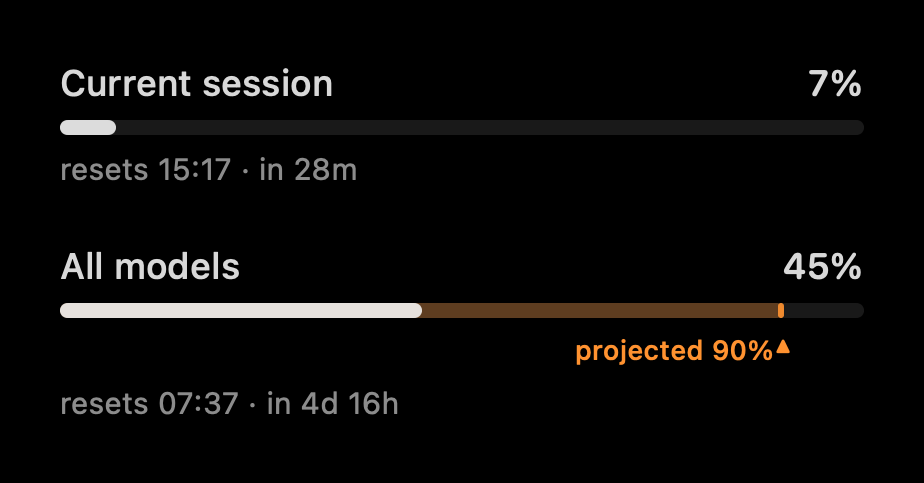
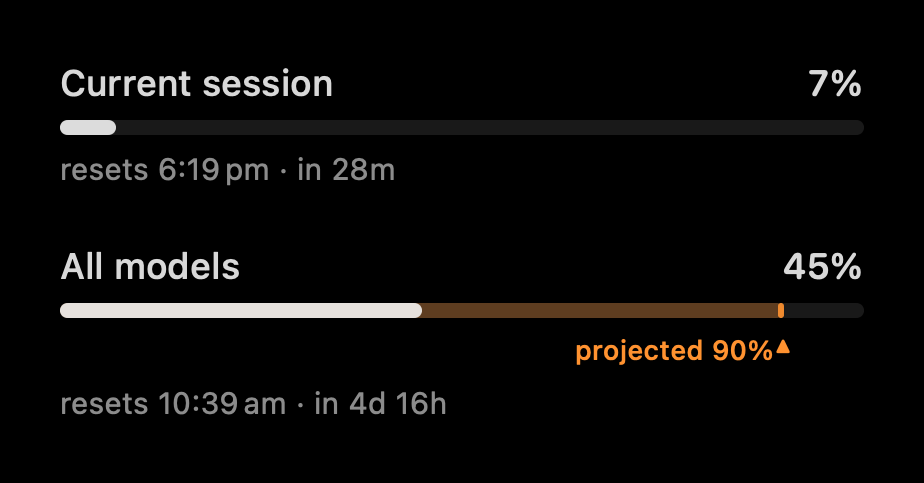
Show times in the user's own clock convention, not always 24-hour
clockTime hardcoded "HH:mm", so every reset time rendered 24-hour regardless of
locale or of the 12/24-hour switch in System Settings. That is wrong for most of
the world, and specifically wrong for the locale this was built in: en_AU
defaults to am/pm, so the app had been showing 17:49 where the system says
5:49 pm since the first release.

timeStyle = .short follows the locale's convention and the explicit override
when there is one — verified against an explicit hour cycle, en_AU@hours=h23
renders 17:50 and en_GB@hours=h12 renders 5:50 pm.

The same commit fixes two neighbours with the same root cause, both literal
patterns where a template was needed:

  - "EEE d MMM" hardcoded day-before-month, wrong in the US and unable to
    express ja_JP's 8月16日(日) at all.
  - "EEE d MMM 'at' HH:mm" additionally froze the connector to English. The
    template supplies "at", "à", or nothing, per locale.

Visible in the popover and in notification bodies, which carry a reset time too.

The debug stamp in AppDelegate stays 24-hour deliberately and now says so: it
goes to stderr for comparing poll gaps, where locale-independence is the point.

README images regenerated — they had the 24-hour times baked in.

Changed region(s): [[0.1515, 0.8075, 0.4848, 0.8696], [0.1515, 0.3106, 0.4242, 0.3727]]

diff --git a/Sources/ClawBar/Data/UsageSnapshot.swift b/Sources/ClawBar/Data/UsageSnapshot.swift
@@ -115,12 +115,28 @@ func resetDescription(_ date: Date, relativeTo now: Date = Date()) -> String {
                                        from: calendar.startOfDay(for: now),
                                        to: calendar.startOfDay(for: date)).day ?? 0
     let formatter = DateFormatter()
-    formatter.dateFormat = days < 7 ? "EEE" : "EEE d MMM"
+    // From a template, never a literal pattern. `EEE d MMM` hardcodes day-before-month,
+    // which is simply wrong in the United States and anywhere else that leads with the
+    // month, and it cannot produce the shapes some locales need at all — ja_JP wants
+    // 8月16日(日), which is not a reordering of these fields but a different construction.
+    // A template names the fields wanted and lets the locale decide the rest.
+    formatter.dateFormat = DateFormatter.dateFormat(
+        fromTemplate: days < 7 ? "EEE" : "EEEdMMM", options: 0, locale: .current)
     return "\(formatter.string(from: date)) \(time)"
 }
 
+/// The wall-clock time, in whatever convention the user actually reads.
+///
+/// This was `HH:mm`, which is 24-hour for everybody. That is wrong for most of the world's
+/// locales — and specifically wrong for the one this was developed in, since en_AU defaults
+/// to am/pm. It also ignored the explicit 12/24-hour switch in System Settings, so a user
+/// who had set a preference was overruled by a format string.
+///
+/// `timeStyle = .short` follows both: the locale's own convention, and the override when
+/// there is one. Nothing else here needs to know which was in play.
 func clockTime(_ date: Date) -> String {
     let f = DateFormatter()
-    f.dateFormat = "HH:mm"
+    f.timeStyle = .short
+    f.dateStyle = .none
     return f.string(from: date)
 }

diff --git a/Sources/ClawBar/App/AppDelegate.swift b/Sources/ClawBar/App/AppDelegate.swift
@@ -46,6 +46,10 @@ final class AppDelegate: NSObject, NSApplicationDelegate {
         if ProcessInfo.processInfo.environment["CLAWBAR_DEBUG"] == "1" {
             scheduler.onPoll = { interval in
                 let stamp = DateFormatter()
+                // Hardcoded 24-hour on purpose, unlike everything user-facing. This goes to
+                // stderr for reading poll intervals off a log; am/pm would make gaps across
+                // noon harder to eyeball, and a locale-dependent log is worse to compare
+                // between machines. Not the bug that `clockTime` had.
                 stamp.dateFormat = "HH:mm:ss"
                 FileHandle.standardError.write(Data(
                     "ClawBar: poll at \(stamp.string(from: Date())) (interval \(Int(interval))s)\n".utf8))

diff --git a/Sources/ClawBar/UI/PopoverView.swift b/Sources/ClawBar/UI/PopoverView.swift
@@ -138,7 +138,10 @@ struct WindowRow: View {
                             p.ratePerDay)]
         if let at = p.limitReachedAt {
             let f = DateFormatter()
-            f.dateFormat = "EEE d MMM 'at' HH:mm"
+            // The template supplies the connector too — "at" in English, "à" in French, none
+            // in Japanese. The literal `'at'` this replaces stayed English in every locale.
+            f.dateFormat = DateFormatter.dateFormat(
+                fromTemplate: "EEEdMMMjm", options: 0, locale: .current)
             lines.append("At this rate the limit arrives \(f.string(from: at)).")
         }
         switch p.outlook {
